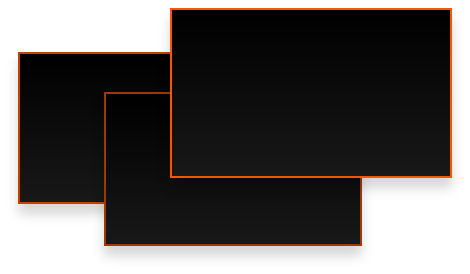
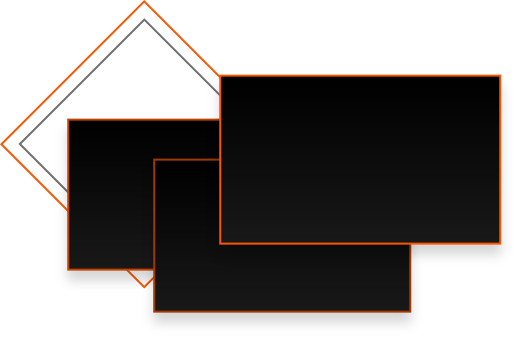
deign update and big fix cloud

diff --git a/index.html b/index.html
@@ -265,7 +265,7 @@
 
                             <div class="col-md-5 col-md-push-5 order-sm-2">
                                 
-                                <img src="./images/earn_vector.png" class="centerImg"/>
+                                <img src="./images/earn_vector@2x.png" class="centerImg"/>
                         
                             </div>
                         </div>
@@ -274,7 +274,7 @@
 
                             <div class="col-md-5 col-md-push-5 order-sm-1">
                                 
-                                <img src="./images/req_vecot_encrypted.png" class="centerImg" style="width: 70% !important;"/>
+                                <img src="./images/req_vecot_encrypted@2x.png" class="centerImg" style="width: 70% !important;"/>
                         
                             </div>
 

diff --git a/js/totalBricksChart.js b/js/totalBricksChart.js
@@ -35,7 +35,7 @@ function countTotalBricks() {
                     labels: ['BRONZE', 'SILVER', 'GOLD'],
                     datasets: [{
                         label: 'People',
-                        backgroundColor: ['#CD7F32','#C0C0C0','#FFEB96'],
+                        backgroundColor: ['#FA9F5B','#FF783C','#fa5700'],
                         borderColor: 'black',
                         data: array
                     }]

diff --git a/functions/index.js b/functions/index.js
@@ -506,7 +506,7 @@ function findFreeRiders(num){
 
   return admin.database().ref('Contests/Pool'+num).once('value').then((datasnapshot) => {
     var moneyTotal = datasnapshot.child("moneyTotal").val();
-    var priceEntry = snapshot.child("priceEntry").val();
+    var priceEntry = datasnapshot.child("priceEntry").val();
 
     console.log("Pool"+num+" moneyTotal "+moneyTotal+" priceEntry "+priceEntry);
 
